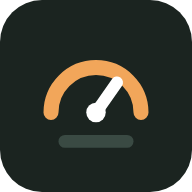
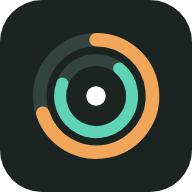
Ícono nuevo: anillos de progreso
Claude-Session: https://claude.ai/code/session_01EBESjdbaavEtxJTJqbnkSa

Changed region(s): [[0.1562, 0.1562, 0.8438, 0.8438]]

diff --git a/src/pages/Login.jsx b/src/pages/Login.jsx
@@ -1,6 +1,5 @@
 import { useState } from 'react';
 import { supabase } from '../supabase.js';
-import { Icon } from '../ui.jsx';
 
 const traducir = (msg) => {
   if (/Invalid login/i.test(msg)) return 'Email o contraseña incorrectos.';
@@ -30,7 +29,7 @@ export default function Login() {
   return (
     <div className="center-screen">
       <form className="card narrow stack16" onSubmit={submit}>
-        <div className="brand dark"><span className="brandmark"><Icon name="scale" size={18} /></span><span>Registro Corporal</span></div>
+        <div className="brand dark"><img className="brandimg" src="./icon.svg" alt="" /><span>Registro Corporal</span></div>
         <p className="muted small">Si ya tenés usuario en Gastos en Familia, entrá con el mismo.</p>
         <h1>{modo === 'entrar' ? 'Entrar' : 'Crear cuenta'}</h1>
         <label className="field">Email

diff --git a/src/App.jsx b/src/App.jsx
@@ -45,7 +45,7 @@ export default function App() {
   return (
     <div className="shell">
       <aside className="sidebar">
-        <div className="brand"><span className="brandmark"><Icon name="scale" size={18} /></span><span>Registro Corporal</span></div>
+        <div className="brand"><img className="brandimg" src="./icon.svg" alt="" /><span>Registro Corporal</span></div>
         <button type="button" className="btn primary sideadd" onClick={() => nav('/registrar?voz=1')}><Icon name="mic" size={20} />Registrar comida</button>
         <nav className="sidenav">
           {NAV.map((n) => (

diff --git a/src/styles.css b/src/styles.css
@@ -266,3 +266,4 @@ code { background: var(--line-soft); padding: 2px 6px; border-radius: 6px; }
 .fasemark.on { background: var(--ink); }
 .fasemark i { position: absolute; top: 16px; left: 50%; transform: translateX(-50%); font-style: normal; font-size: 10.5px; color: var(--muted); white-space: nowrap; }
 .fasebox { background: #FDF3E6; border-radius: 12px; padding: 10px 12px; display: flex; flex-direction: column; gap: 3px; line-height: 1.4; }
+.brandimg { width: 34px; height: 34px; border-radius: 9px; }
